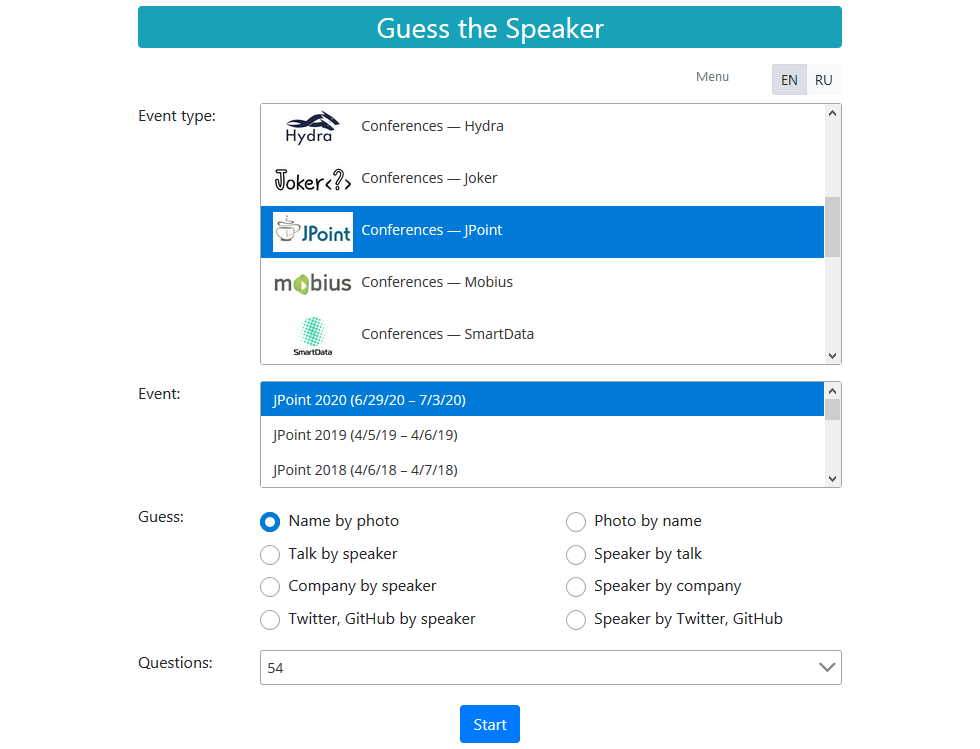
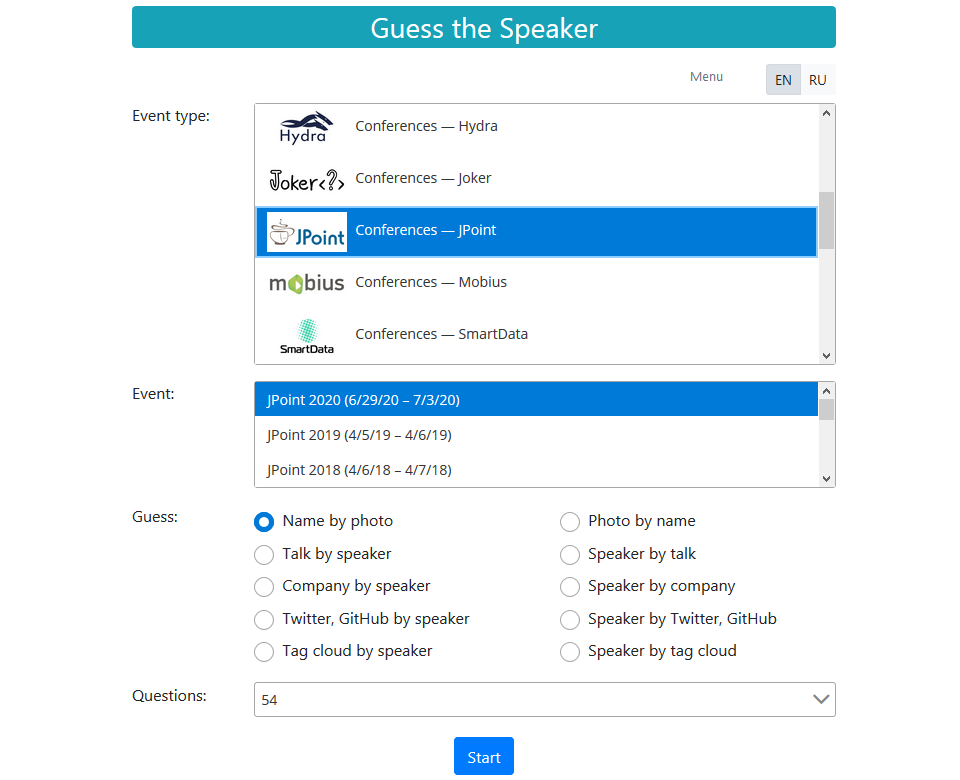
Change screenshots and description

diff --git a/README.md b/README.md
@@ -15,7 +15,7 @@ Information and statistics of conferences, meetups, talks, speakers.
 
 ![Game](/documents/images/game.png)
 
-In the game you need to guess the speaker, talk or company.
+In the game you need to guess the speaker, talk, company or tag cloud.
 
 ## Running
 
